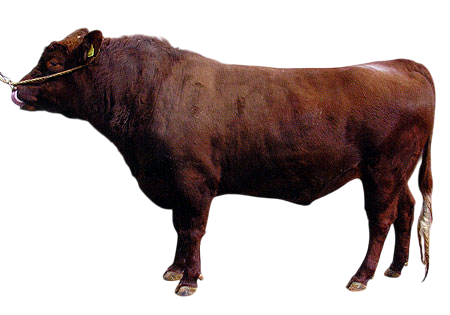
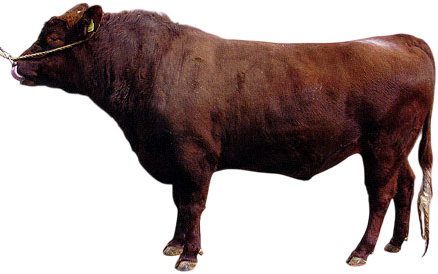
#133 add breed explanation

Changed region(s): [[0.0, 0.0, 1.0, 0.9927]]

diff --git a/index.html b/index.html
@@ -126,24 +126,45 @@
       <div class="position-relative vh-100">
         <div class="position-absolute top-50 start-50 translate-middle fs-3 fw-bold text-white-75">
           <h5>refers to <span class="h3 text-white">four breeds</span> of cattle raised in Japan.</h5>
+          <h6 class="text-center">(*) Hover over the pictures to see details.</h6>
         </div>
-        <div class="position-absolute top-10 start-10 text-center">
-          <img src="assets/img/wagyu-breeds/japanese-black.png" class="wagyu-type">
+        <div class="position-absolute top-10 start-10 text-center wagyu-breed">
+          <div class="p-2">
+            <img src="assets/img/wagyu-breeds/japanese-black.png" class="wagyu-type">
+          </div>
+          <div class="mask">
+            <div class="caption">This breed accounts for about 98% of all Wagyu cattle in Japan and is known for its exceptional marbling. It is the primary breed used for famous Japanese beef brands like Kobe and Matsusaka, offering rich flavor and a melt-in-the-mouth texture.</div>
+          </div>
           <h4 class="text-white-75">Japanese Black</h4>
           <h4 class="text-white-75">黒毛和種</h4>
         </div>
-        <div class="position-absolute top-10 end-10 text-center">
-          <img src="assets/img/wagyu-breeds/japanese-spolled.png" class="wagyu-type">
+        <div class="position-absolute top-10 end-10 text-center wagyu-breed">
+          <div class="p-2">
+            <img src="assets/img/wagyu-breeds/japanese-spolled.png" class="wagyu-type">
+          </div>
+          <div class="mask">
+            <div class="caption">This rare Wagyu breed, naturally hornless, was developed by crossbreeding with Aberdeen Angus. Currently, it is only raised in Yamaguchi Prefecture and produces leaner meat while maintaining Wagyu’s signature tenderness.</div>
+          </div>
           <h4 class="text-white-75">Japanese Polled</h4>
           <h4 class="text-white-75">無角和種</h4>
         </div>
-        <div class="position-absolute bottom-10 start-10 text-center">
-          <img src="assets/img/wagyu-breeds/japanese-brown.png" class="wagyu-type">
+        <div class="position-absolute bottom-10 start-10 text-center wagyu-breed">
+          <div class="p-2">
+            <img src="assets/img/wagyu-breeds/japanese-brown.png" class="wagyu-type">
+          </div>
+          <div class="mask">
+            <div class="caption">Also known as "Akaushi," this breed has a reddish-brown coat and is primarily raised in Kumamoto and Kochi. Its meat is leaner yet tender, with a well-balanced flavor and moderate marbling.</div>
+          </div>
           <h4 class="text-white-75">Japanese Brown</h4>
           <h4 class="text-white-75">褐毛和種</h4>
         </div>
-        <div class="position-absolute bottom-10 end-10 text-center">
-          <img src="assets/img/wagyu-breeds/japanese-shorthorn.png" class="wagyu-type">
+        <div class="position-absolute bottom-10 end-10 text-center wagyu-breed">
+          <div class="p-2">
+            <img src="assets/img/wagyu-breeds/japanese-shorthorn.png" class="wagyu-type">
+          </div>
+          <div class="mask">
+            <div class="caption">This breed originates from the Tohoku region and is well adapted to harsh climates. It produces lean, flavorful beef with a high concentration of umami, making it distinct from other Wagyu breeds.</div>
+          </div>
           <h4 class="text-white-75">Japanese Shorthorn</h4>
           <h4 class="text-white-75">日本短角和種</h4>
         </div>

diff --git a/css/styles.css b/css/styles.css
@@ -12130,3 +12130,26 @@ u {
   fill: black;
   text-anchor: middle;
 }
+
+.caption {
+  font-size: 110%;
+  text-align: center;
+  color: #fff;
+}
+
+.mask {
+  width: 100%;
+  height: 100%;
+  position: absolute;
+  top: 0;
+  left: 0;
+  opacity: 0; /* マスクを表示しない */
+  background-color: rgba(0, 0, 0, 0.4);
+  -webkit-transition: all 0.6s ease;
+  transition: all 0.6s ease;
+}
+
+.wagyu-breed:hover .mask {
+  opacity: 1; /* マスクを表示する */
+  padding-top: 90px; /* ホバーで下にずらす */
+}
